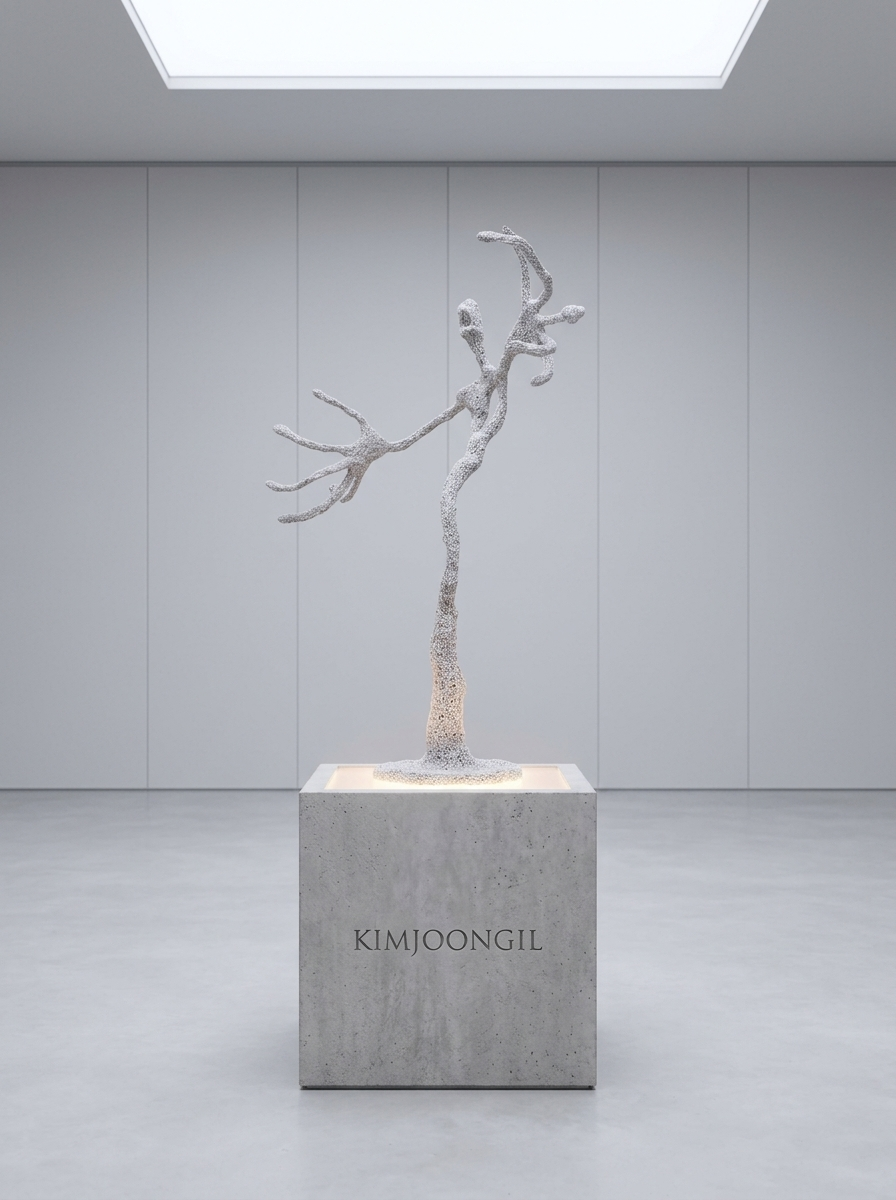
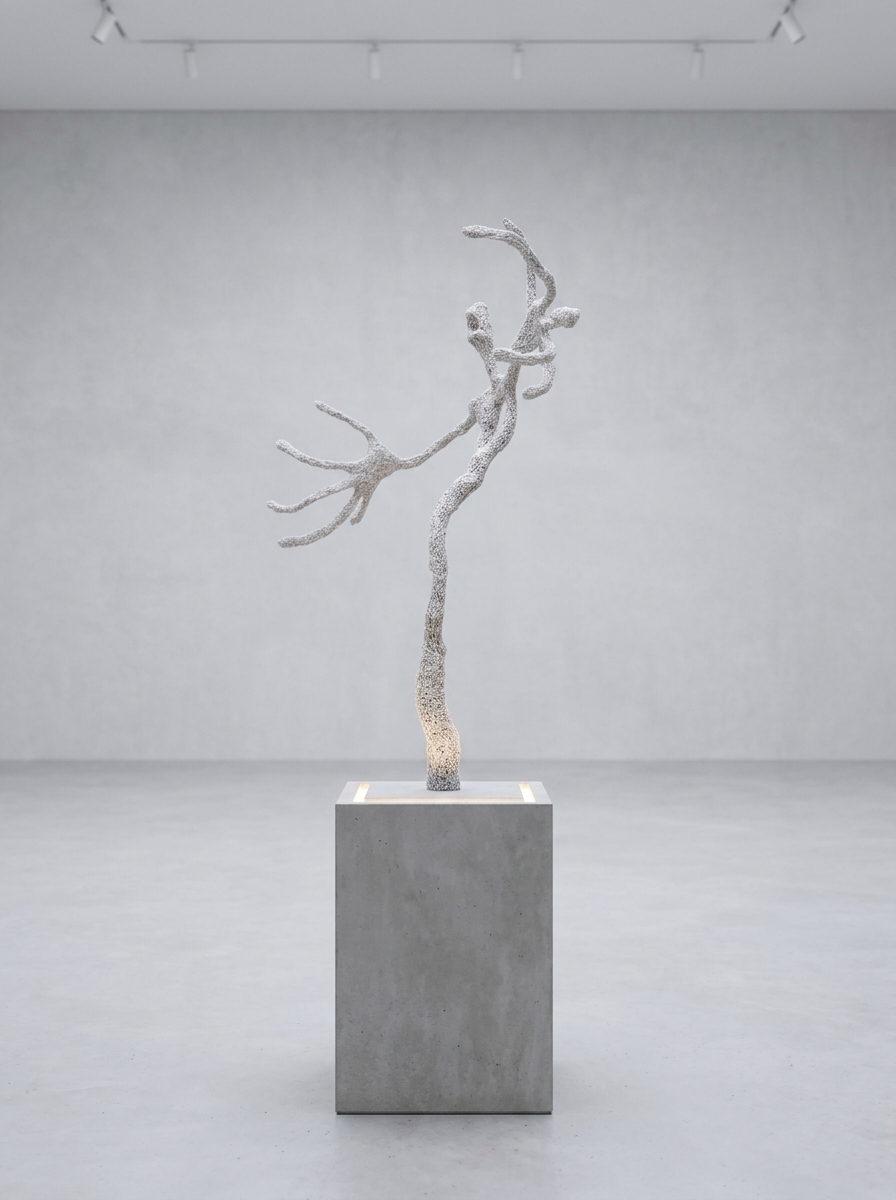
UI: Replace Batch 12 sculptures with clean versions (no text)

Changed region(s): [[0.0, 0.1233, 1.0, 0.9558], [0.0, 0.0, 1.0, 0.0925], [0.3438, 0.3083, 0.375, 0.3392]]

diff --git a/index.html b/index.html
@@ -456,7 +456,7 @@
     </div>
     <div class="toc-overlay" onclick="closeTOC()"></div>
 
-    <script src="book_data.js?v=20242271"></script>
+    <script src="book_data.js?v=20242272"></script>
     <script>
       let currentChapter = 0;
       let currentColumn = 0;
